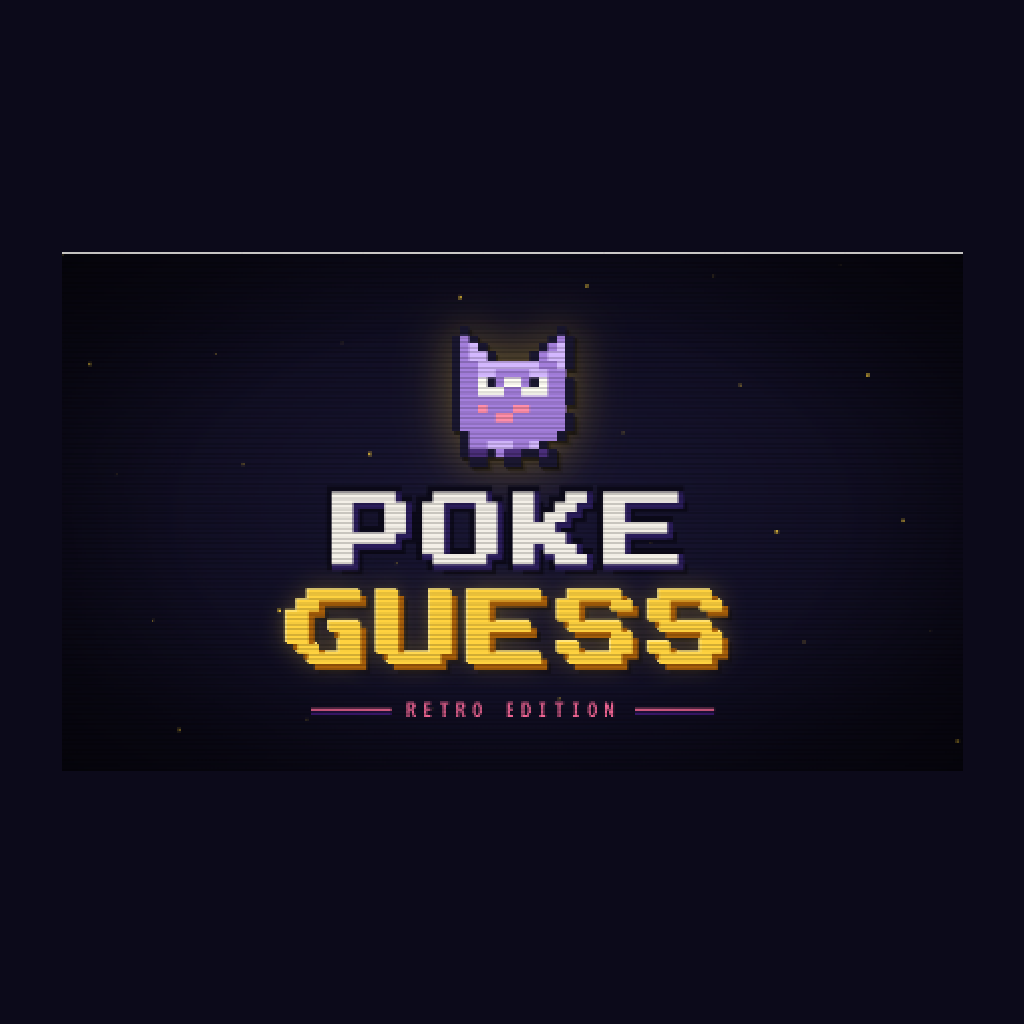
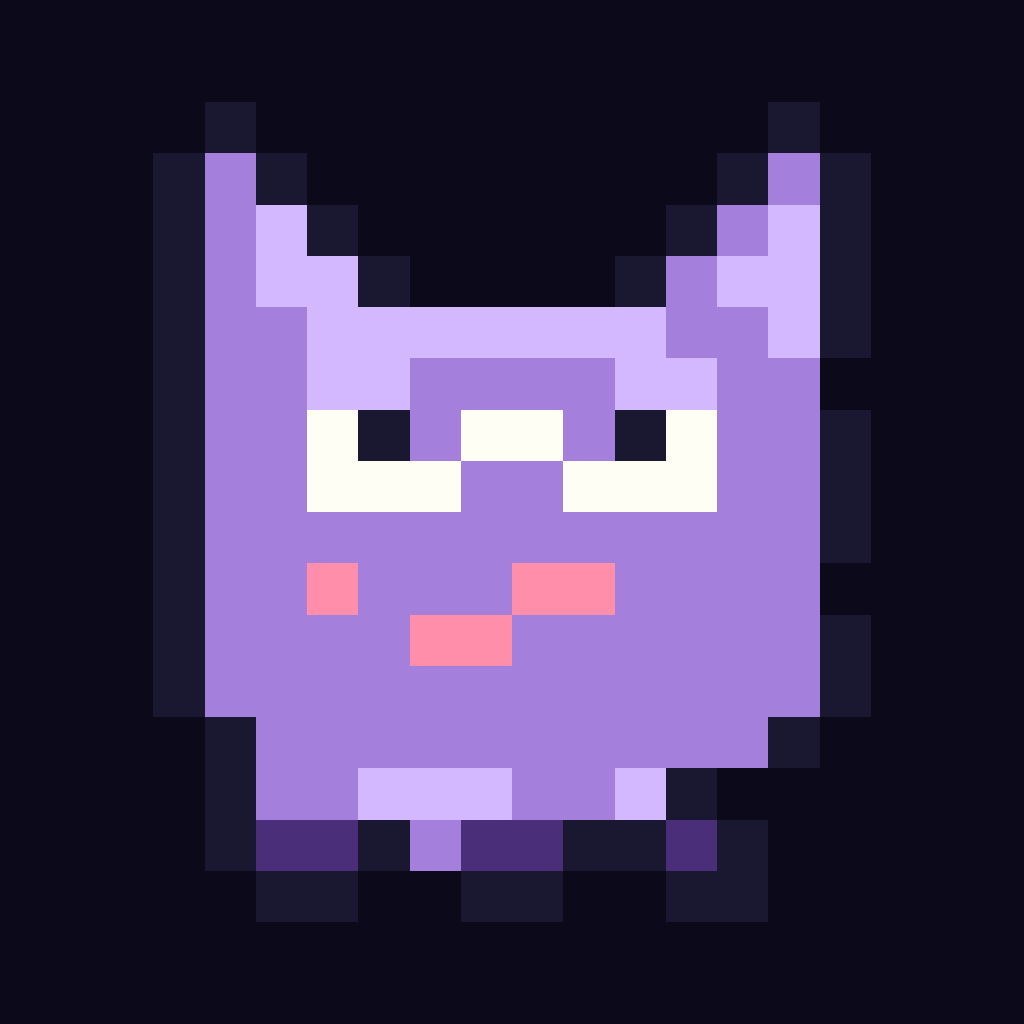
feat(ui): purrglow mascot branding + animated loading screens
- App icon, adaptive icon and boot splash regenerated as 1024x1024
  with the purrglow pixel-art cat (no glow variant) centered at ~85%
  of the canvas over a #0c0a1a navy background that matches the app
- New mascot asset (assets/img/creature.png): hero variant with the
  yellow glow halo, used inside the React splash and loading screens
- Splash screen restored to the mockup layout: 4 bobbing silhouettes
  on top, glowing mascot below, POKE / GUESS pixel title, and a
  "— RETRO EDITION —" tag with pink dashes
- In-app loading state replaces the bare ActivityIndicator with the
  bobbing mascot and animated dots (SORTEANDO CRIATURA. .. ...)
- Boot fallback (font loading) now shows the mascot instead of a
  generic spinner

Also adds expo-splash-screen as a config plugin (SDK 54 recommended
syntax) alongside the legacy expo.splash config for compatibility.

diff --git a/App.js b/App.js
@@ -1,6 +1,9 @@
-import React, { useCallback, useEffect, useState } from 'react';
+import React, { useCallback, useEffect, useRef, useState } from 'react';
 import {
 	ActivityIndicator,
+	Animated,
+	Easing,
+	Image,
 	Platform,
 	StatusBar,
 	StyleSheet,
@@ -23,6 +26,64 @@ import GameScreen from './src/screens/game';
 import WinScreen from './src/screens/win';
 import LoseScreen from './src/screens/lose';
 import SettingsModal from './src/screens/settings';
+
+const CREATURE = require('./assets/img/creature.png');
+
+function LoadingScreen({ label, error }) {
+	const bob = useRef(new Animated.Value(0)).current;
+	const dots = useRef(new Animated.Value(0)).current;
+
+	useEffect(() => {
+		const bobLoop = Animated.loop(
+			Animated.sequence([
+				Animated.timing(bob, {
+					toValue: -8,
+					duration: 600,
+					easing: Easing.inOut(Easing.quad),
+					useNativeDriver: true,
+				}),
+				Animated.timing(bob, {
+					toValue: 0,
+					duration: 600,
+					easing: Easing.inOut(Easing.quad),
+					useNativeDriver: true,
+				}),
+			])
+		);
+		const dotsLoop = Animated.loop(
+			Animated.timing(dots, {
+				toValue: 3,
+				duration: 1200,
+				easing: Easing.linear,
+				useNativeDriver: false,
+			})
+		);
+		bobLoop.start();
+		dotsLoop.start();
+		return () => {
+			bobLoop.stop();
+			dotsLoop.stop();
+		};
+	}, [bob, dots]);
+
+	const dotCount = dots.interpolate({
+		inputRange: [0, 1, 2, 3],
+		outputRange: ['', '.', '..', '...'],
+	});
+
+	return (
+		<View style={styles.loadingRoot}>
+			<Animated.View style={{ transform: [{ translateY: bob }] }}>
+				<Image source={CREATURE} style={styles.loadingMascot} resizeMode="contain" />
+			</Animated.View>
+			<View style={styles.loadingTextRow}>
+				<Text style={styles.loadingText}>{label}</Text>
+				<Animated.Text style={styles.loadingText}>{dotCount}</Animated.Text>
+			</View>
+			{error ? <Text style={styles.errorText}>{error}</Text> : null}
+		</View>
+	);
+}
 
 export default function App() {
 	const [fontsLoaded] = useFonts({
@@ -119,7 +180,7 @@ export default function App() {
 	if (!fontsLoaded) {
 		return (
 			<View style={styles.bootRoot}>
-				<ActivityIndicator color={colors.accent} />
+				<Image source={CREATURE} style={styles.bootMascot} resizeMode="contain" />
 			</View>
 		);
 	}
@@ -136,13 +197,7 @@ export default function App() {
 		);
 	} else if (screen === 'game') {
 		if (loadingTarget || !target) {
-			content = (
-				<View style={styles.loadingRoot}>
-					<ActivityIndicator color={colors.accent} size="large" />
-					<Text style={styles.loadingText}>SORTEANDO CRIATURA...</Text>
-					{error ? <Text style={styles.errorText}>{error}</Text> : null}
-				</View>
-			);
+			content = <LoadingScreen label="SORTEANDO CRIATURA" error={error} />;
 		} else {
 			content = (
 				<GameScreen
@@ -226,17 +281,30 @@ const styles = StyleSheet.create({
 		alignItems: 'center',
 		justifyContent: 'center',
 	},
+	bootMascot: {
+		width: 140,
+		height: 140,
+	},
 	loadingRoot: {
 		flex: 1,
 		backgroundColor: colors.bgDeep,
 		alignItems: 'center',
 		justifyContent: 'center',
-		gap: 16,
+		gap: 18,
+	},
+	loadingMascot: {
+		width: 150,
+		height: 150,
+	},
+	loadingTextRow: {
+		flexDirection: 'row',
+		alignItems: 'center',
+		minHeight: 16,
 	},
 	loadingText: {
 		color: colors.accent,
 		fontFamily: fonts.pixel,
-		fontSize: 10,
+		fontSize: 11,
 		letterSpacing: 2,
 	},
 	errorText: {

diff --git a/src/screens/splash/index.js b/src/screens/splash/index.js
@@ -13,6 +13,7 @@ import { colors, fonts } from '../../theme/tokens';
 import { getPokeSpriteUrl } from '../../api/pokeApiService';
 import { haptics } from '../../game/feedback';
 
+const CREATURE = require('../../../assets/img/creature.png');
 const FEATURED_IDS = [25, 6, 9, 3]; // Pikachu, Charizard, Blastoise, Venusaur
 
 function BobbingSilhouette({ id, delay }) {
@@ -47,6 +48,35 @@ function BobbingSilhouette({ id, delay }) {
 				style={[styles.silhouette, { tintColor: '#3a2f5e' }]}
 				resizeMode="contain"
 			/>
+		</Animated.View>
+	);
+}
+
+function BobbingMascot() {
+	const y = useRef(new Animated.Value(0)).current;
+
+	useEffect(() => {
+		const loop = Animated.loop(
+			Animated.sequence([
+				Animated.timing(y, {
+					toValue: -8,
+					duration: 800,
+					useNativeDriver: true,
+				}),
+				Animated.timing(y, {
+					toValue: 0,
+					duration: 800,
+					useNativeDriver: true,
+				}),
+			])
+		);
+		loop.start();
+		return () => loop.stop();
+	}, [y]);
+
+	return (
+		<Animated.View style={{ transform: [{ translateY: y }] }}>
+			<Image source={CREATURE} style={styles.mascot} resizeMode="contain" />
 		</Animated.View>
 	);
 }
@@ -168,11 +198,13 @@ export default function SplashScreen({ onStart, onOpenSettings, mode, gens }) {
 					{ opacity: fadeOut, transform: [{ scale: scaleOut }] },
 				]}
 			>
-				<View style={styles.creatures}>
+				<View style={styles.silhouettes}>
 					{FEATURED_IDS.map((id, i) => (
 						<BobbingSilhouette key={id} id={id} delay={i * 150} />
 					))}
 				</View>
+
+				<BobbingMascot />
 
 				<View style={styles.titleWrap}>
 					<View>
@@ -185,7 +217,11 @@ export default function SplashScreen({ onStart, onOpenSettings, mode, gens }) {
 					</View>
 				</View>
 
-				<Text style={styles.tagline}>— ADIVINHE A CRIATURA —</Text>
+				<View style={styles.retroBar}>
+					<View style={styles.retroDash} />
+					<Text style={styles.retroText}>RETRO EDITION</Text>
+					<View style={styles.retroDash} />
+				</View>
 
 				<Pressable
 					onPress={handleStart}
@@ -273,14 +309,36 @@ const styles = StyleSheet.create({
 		height: 3,
 		backgroundColor: colors.accent,
 	},
-	creatures: {
+	silhouettes: {
 		flexDirection: 'row',
-		gap: 18,
+		gap: 28,
 		marginBottom: 24,
 	},
 	silhouette: {
 		width: 56,
 		height: 56,
+	},
+	mascot: {
+		width: 110,
+		height: 110,
+		marginBottom: 14,
+	},
+	retroBar: {
+		flexDirection: 'row',
+		alignItems: 'center',
+		gap: 10,
+		marginTop: 18,
+	},
+	retroDash: {
+		width: 28,
+		height: 2,
+		backgroundColor: colors.accentPink,
+	},
+	retroText: {
+		fontFamily: fonts.pixel,
+		fontSize: 11,
+		color: colors.accentPink,
+		letterSpacing: 3,
 	},
 	titleWrap: {
 		alignItems: 'center',
